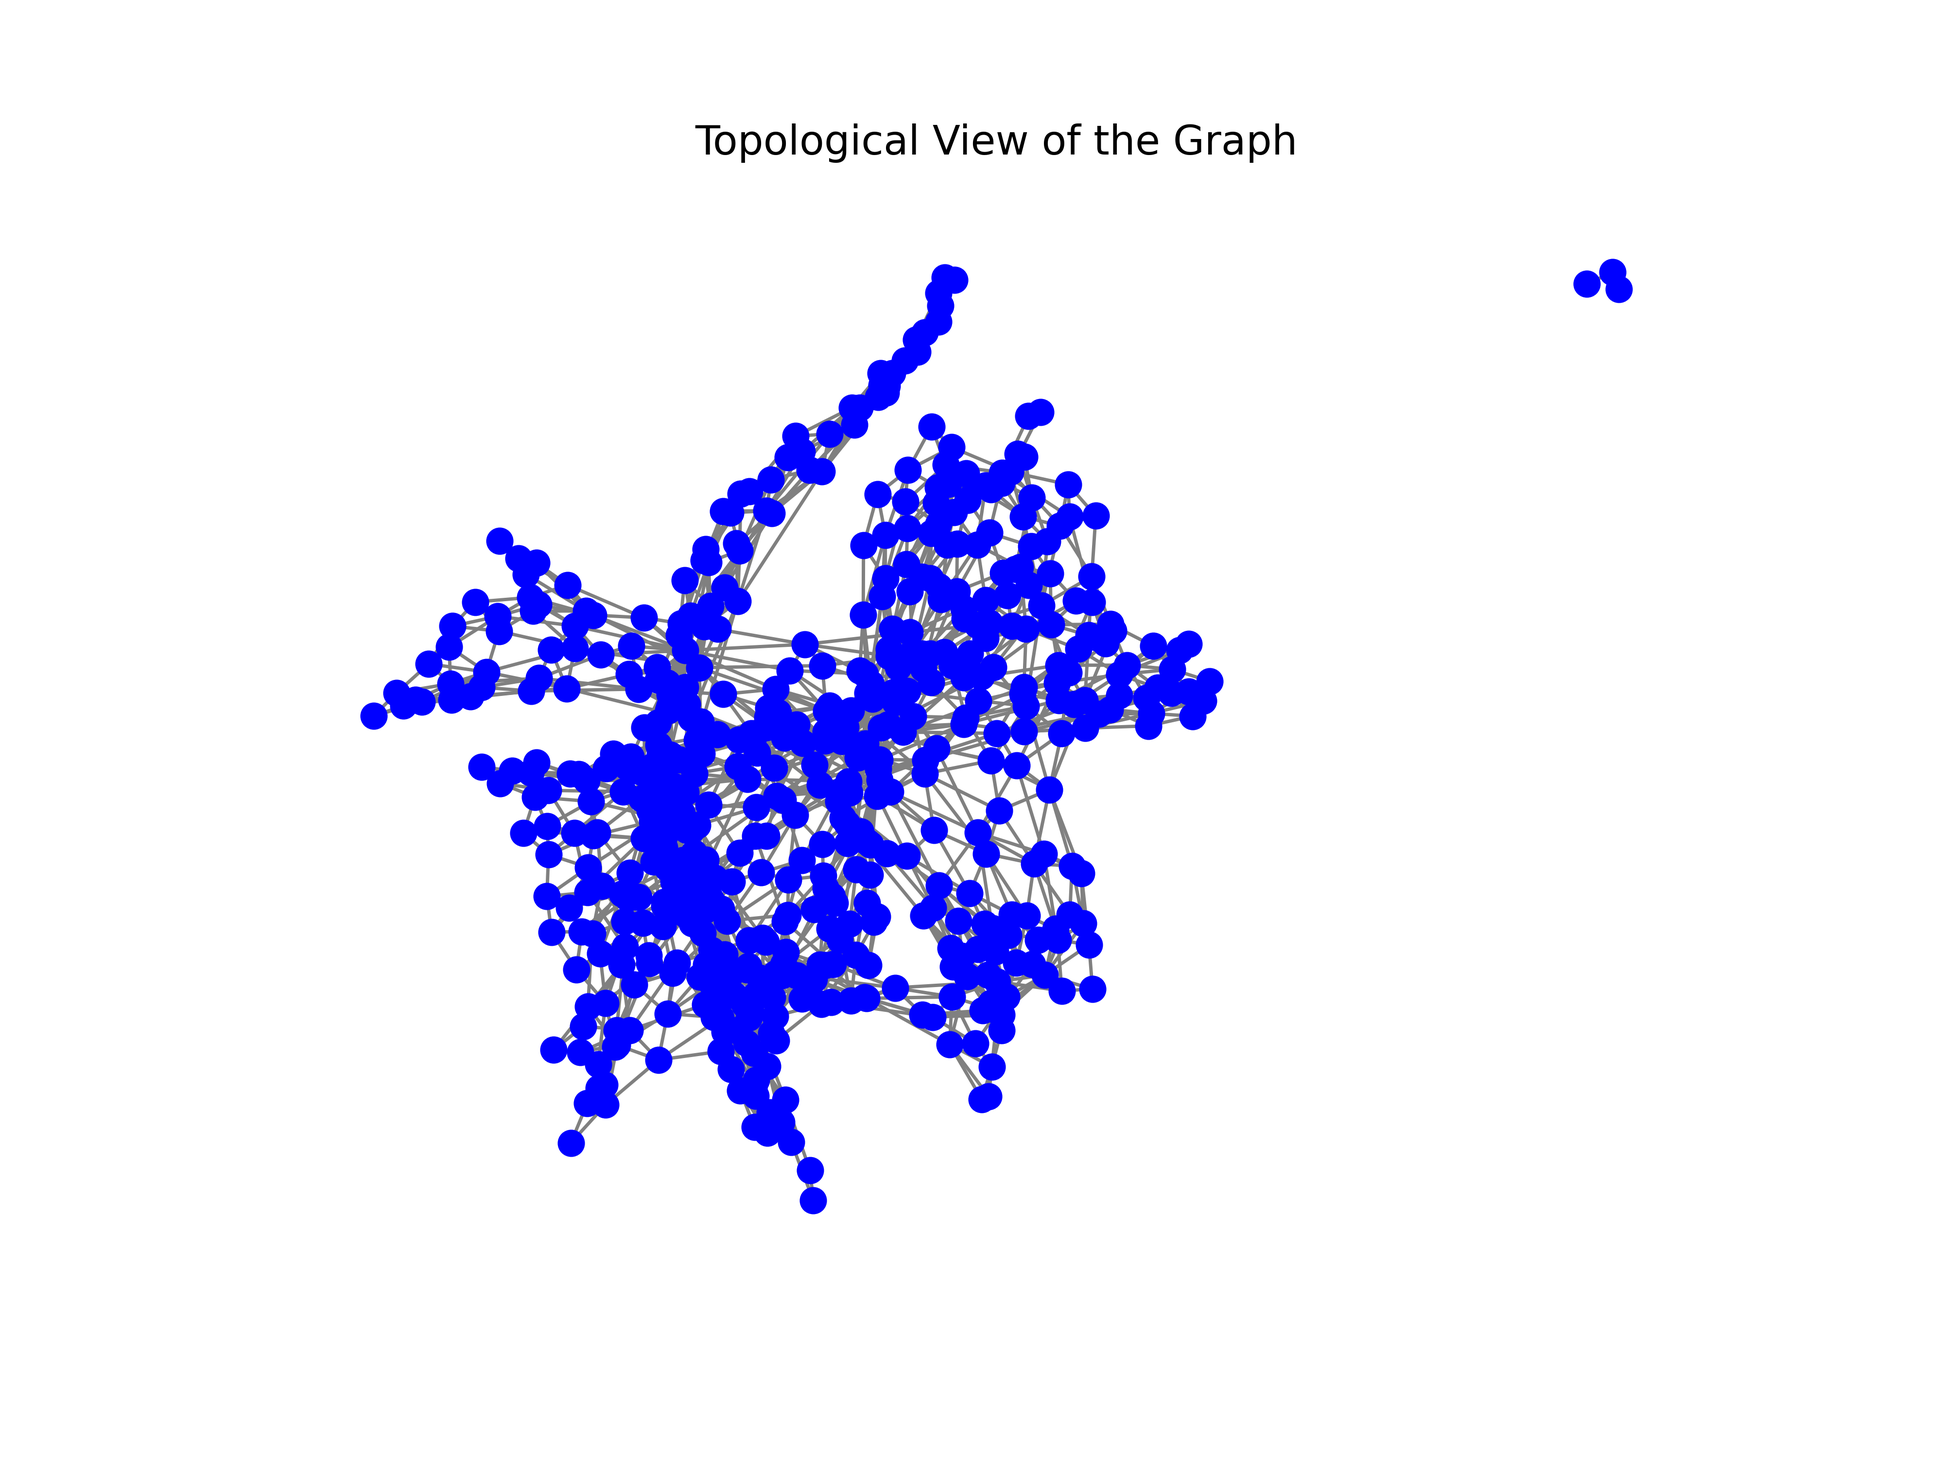
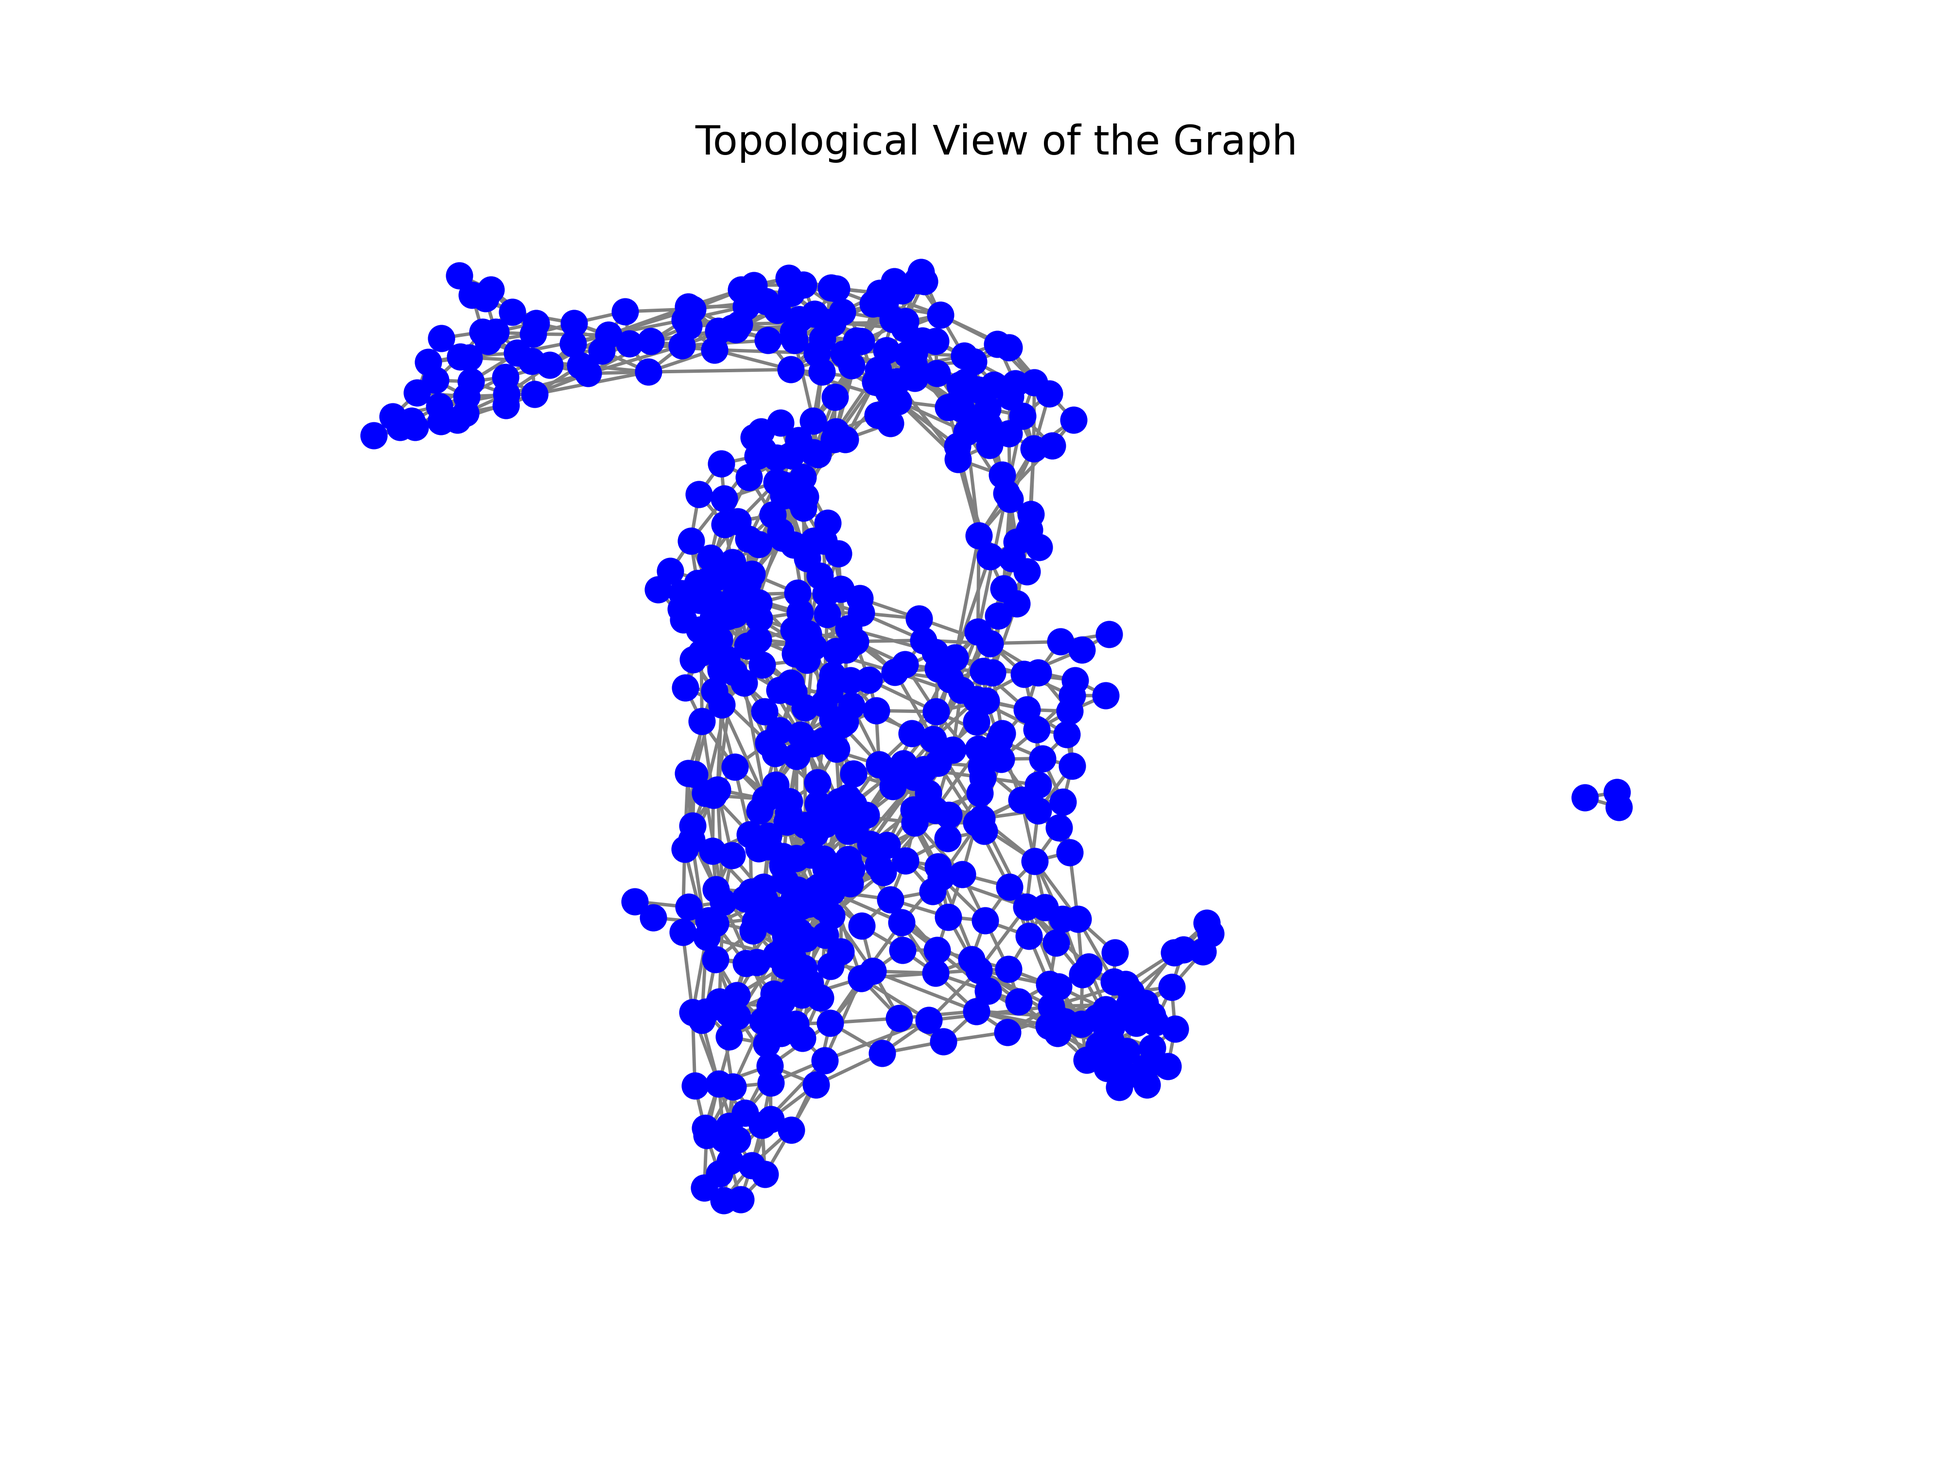
Fix NaN node removal to also remove admin level 3 nodes if an admin level 2 node is removed. Also fix graph on shapefile visualisation of this

Changed region(s): [[0.1875, 0.155, 0.625, 0.837], [0.8125, 0.527, 0.8438, 0.558], [0.8125, 0.186, 0.8438, 0.217]]

diff --git a/dissGNN/visualisations.py b/dissGNN/visualisations.py
@@ -55,7 +55,7 @@ def plot_shape_file(shapefile_path, admin_level):
     plt.xlabel("Longitude")
     plt.ylabel("Latitude")
     plt.savefig("output/map_visual/admin_" + str(admin_level) + "/map_visual_population_counts.png", dpi=500)
-    plt.show()
+    # plt.show()
 
 def plot_shape_file_predictions(shapefile_path, pred, act, admin_level, data):
     gdf = gpd.read_file(shapefile_path)
@@ -98,53 +98,51 @@ def plot_graph_on_shapefile(shapefile_path_coarse, shapefile_path_fine, data, ad
     gdf_coarse = gpd.read_file(shapefile_path_coarse)
     gdf_fine = gpd.read_file(shapefile_path_fine)
 
-    # Ensure PCODEs match between graph data and shapefile
-    gdf_coarse["ADM"+str(ad_level_coarse)+"_PCODE"] = gdf_coarse["ADM"+str(ad_level_coarse)+"_PCODE"].astype(str).str.strip()
-    gdf_fine["ADM"+str(ad_level_fine)+"_PCODE"] = gdf_fine["ADM"+str(ad_level_fine)+"_PCODE"].astype(str).str.strip()
+    pcode_col_coarse = f"ADM{ad_level_coarse}_PCODE"
+    pcode_col_fine = f"ADM{ad_level_fine}_PCODE"
+
+    # Ensure correct naming
+    gdf_coarse[pcode_col_coarse] = gdf_coarse[pcode_col_coarse].astype(str).str.strip()
+    gdf_fine[pcode_col_fine] = gdf_fine[pcode_col_fine].astype(str).str.strip()
     data.admin_codes = pd.Series(data.admin_codes).astype(str).str.strip()
 
     admin_codes_coarse = set(data.admin_codes[data.admin_level.cpu().numpy() == ad_level_coarse])
     admin_codes_fine = set(data.admin_codes[data.admin_level.cpu().numpy() == ad_level_fine])
 
+
     # Merge node coordinates with shapefile data
-    gdf_matched_coarse = gdf_coarse[gdf_coarse["ADM"+str(ad_level_coarse)+"_PCODE"].isin(admin_codes_coarse)].copy()
-    gdf_matched_fine = gdf_fine[gdf_fine["ADM"+str(ad_level_fine)+"_PCODE"].isin(admin_codes_fine)].copy()
+    gdf_matched_coarse = gdf_coarse[gdf_coarse[pcode_col_coarse].isin(admin_codes_coarse)].copy()
+    gdf_matched_fine = gdf_fine[gdf_fine[pcode_col_fine].isin(admin_codes_fine)].copy()
+
     gdf_matched_coarse["admin_level"] = "ADM2"
     gdf_matched_fine["admin_level"] = "ADM3"
-    gdf_matched = pd.concat([gdf_matched_coarse, gdf_matched_fine])
-    gdf_matched = gdf_matched.drop_duplicates()
 
-    
     # Extract centroids as node coordinates
-    gdf_matched["centroid"] = gdf_matched.geometry.centroid
-    node_coords = np.array(list(zip(gdf_matched.centroid.x, gdf_matched.centroid.y)))
+    gdf_matched_coarse["centroid"] = gdf_matched_coarse.geometry.centroid
+    gdf_matched_fine["centroid"] = gdf_matched_fine.geometry.centroid
+
+    pos_coarse = {row[pcode_col_coarse]: (row.centroid.x, row.centroid.y) for _, row in gdf_matched_coarse.iterrows()}
+    pos_fine = {row[pcode_col_fine]: (row.centroid.x, row.centroid.y) for _, row in gdf_matched_fine.iterrows()}
+
+    pos = {**pos_coarse, **pos_fine}
 
     # Create a graph using NetworkX
     edges = data.edge_index.cpu().numpy().T  # Convert to NumPy
     edges_df = pd.DataFrame(edges, columns=["source", "target"])
 
+    node_index_to_pcode = {i: data.admin_codes[i] for i in range(len(data.admin_codes))}
+    edges_df["source"] = edges_df["source"].map(node_index_to_pcode)
+    edges_df["target"] = edges_df["target"].map(node_index_to_pcode)
+
      # Remove nodes that have no position
-    valid_nodes = set(gdf_matched.index)
-    edges_df = edges_df[edges_df["source"].isin(valid_nodes) & edges_df["target"].isin(valid_nodes)]
+    edges_df = edges_df[edges_df["source"].isin(pos) & edges_df["target"].isin(pos)]
 
     G = nx.from_pandas_edgelist(edges_df, source="source", target="target", create_using=nx.Graph())
 
-
-    # Convert node coordinates into a dictionary (for NetworkX)
-    pos = {i: (node_coords[idx, 0], node_coords[idx, 1]) for idx, i in enumerate(valid_nodes)}
-
-    # Ensure valid_nodes indices are within gdf_matched's index range
-    valid_nodes = valid_nodes.intersection(gdf_matched.index)
-
-    pos_coarse = gdf_matched[gdf_matched["admin_level"] == "ADM2"].apply(lambda row: pos[row.name] if row.name in pos else None, axis=1).dropna().to_dict()
-    pos_fine = gdf_matched[gdf_matched["admin_level"] == "ADM3"].apply(lambda row: pos[row.name] if row.name in pos else None, axis=1).dropna().to_dict()
-
-    pos_all = {**pos_coarse, **pos_fine}
-
-
     # Plot the shapefile as the base map
     fig, ax = plt.subplots(figsize=(12, 8))
-    gdf_matched.plot(ax=ax, color="lightgrey", edgecolor="black", alpha=0.6)
+    gdf_matched_coarse.plot(ax=ax, color="lightgrey", edgecolor="black", alpha=0.6)
+    gdf_matched_fine.plot(ax=ax, color="lightgrey", edgecolor="black", alpha=0.6)
 
     G_coarse = G.subgraph(pos_coarse.keys())
     G_fine = G.subgraph(pos_fine.keys())
@@ -154,19 +152,9 @@ def plot_graph_on_shapefile(shapefile_path_coarse, shapefile_path_fine, data, ad
 
     # Draw ADM3 nodes (green)
     nx.draw_networkx_nodes(G_fine, pos_fine, ax=ax, node_size=30, node_color="green", alpha=0.6)
-    
+
     # Overlay the graph structure
     nx.draw_networkx_nodes(G_coarse, pos_coarse, ax=ax, node_size=50, node_color="blue", alpha=0.8)
-
-    
-
-    # # Add labels
-    # for node, (x, y) in pos_coarse.items():
-    #     ax.text(x, y, "ADM2", fontsize=9, color="black", ha="right", bbox=dict(facecolor="white", alpha=0.6))
-
-    # for node, (x, y) in pos_fine.items():
-    #     ax.text(x, y, "ADM3", fontsize=9, color="darkred", ha="left", bbox=dict(facecolor="white", alpha=0.6))
-
     # Formatting
     plt.title("Graph Structure Overlay on Shapefile")
     plt.xlabel("Longitude")
@@ -176,3 +164,28 @@ def plot_graph_on_shapefile(shapefile_path_coarse, shapefile_path_fine, data, ad
     # Save and display
     plt.savefig("output/map_visual/admin_2_3/graph_on_shapefile.png", dpi=500)
     plt.show()
+
+
+def plot_admin_dists(data):
+
+
+    # Separate labels for admin level 2 and 3
+    admin2_labels = data.y[data.admin_level == 2].cpu().numpy()
+    admin3_labels = data.y[data.admin_level == 3].cpu().numpy()
+
+    # Plot histograms
+    plt.figure(figsize=(12,5))
+
+    plt.subplot(1, 2, 1)
+    plt.hist(admin2_labels, bins=50, alpha=0.7, label="Admin Level 2", color='blue')
+    plt.xlabel("Population Density")
+    plt.ylabel("Count")
+    plt.title("Admin Level 2 Population Density Distribution")
+
+    plt.subplot(1, 2, 2)
+    plt.hist(admin3_labels, bins=50, alpha=0.7, label="Admin Level 3", color='red')
+    plt.xlabel("Population Density")
+    plt.ylabel("Count")
+    plt.title("Admin Level 3 Population Density Distribution")
+    plt.savefig("output/admin_dists.png", dpi=500)
+    # plt.show()

diff --git a/dissGNN/data_processing.py b/dissGNN/data_processing.py
@@ -5,7 +5,7 @@ import torch
 import numpy as np
 from torch_geometric.data import Data
 import matplotlib.pyplot as plt
-from sklearn.preprocessing import StandardScaler
+from sklearn.preprocessing import StandardScaler, MinMaxScaler
 
 
 # Function to convert a shapefile to represent edges of graph for specific country
@@ -50,7 +50,7 @@ def load_data(shape_path_coarse, shape_path_fine, features_path_coarse, features
     edges = pd.concat([edges_coarse, edges_fine, edges_mappings])
 
     #Add weights for edges
-    weights = {"coarse" : 4, "fine" : 1, "mappings" : 10}
+    weights = {"coarse" : 2, "fine" : 0.5, "mappings" : 2}
     edges["weights_init"] = edges["type"].map(weights)
     #Normalize weights TODO
 
@@ -116,30 +116,45 @@ def load_data(shape_path_coarse, shape_path_fine, features_path_coarse, features
     # data.val_mask[positions[train_size:train_size + val_size]] = True
     # data.test_mask[positions[train_size + val_size:]] = True
 
-    admin_mask = (admin_level_vals == 2)  # Mask for admin level 2 nodes
+    # admin_mask = (admin_level_vals == 2)  # Mask for admin level 2 nodes
     # data.y[~torch.tensor(admin_mask)] = -1 #Remove all labels for admin level 3 for semi-supervised learning
-
     return data
 
 def process_feature_data(node_features, edges):
     #Drop nan values and ensure admin level 3 mappings also dropped
     # print("LENGTH", len(node_features.isna().sum()))
-    node_features = node_features.dropna() 
     
-    # admin2_nan = node_features[(node_features['admin_level'] == 2) & (node_features.isna().any(axis=1))]
-    # print("LENGTH", len(admin2_nan[admin2_nan == True]))
-    # admin2_nan_pcodes = admin2_nan["ADM_PCODE"].tolist()
-    # admin3_remove = node_features[(node_features["admin_level"] == 3) & (node_features["ADM_PCODE"].str.startswith(tuple(admin2_nan_pcodes)))]
-    # rows_rem = admin2_nan.index.union(admin3_remove.index)
-    # node_features = node_features.drop(index=rows_rem)
 
-    # print(node_features)
-    edges = edges[edges["source"].isin(node_features["ADM_PCODE"]) & edges["target"].isin(node_features["ADM_PCODE"])] #Remove edges no longer valid
-    node_features.set_index("ADM_PCODE", inplace=True) #Set pcode as index
+   # Convert ADM_PCODE to string for consistency
+     
+    node_features = node_features.copy()
+    # node_features = node_features.dropna() 
+    node_features["ADM_PCODE"] = node_features["ADM_PCODE"].astype(str)
+
+    nodes_with_nans = node_features[node_features.isna().any(axis=1)]
+    removed_pcodes = set(nodes_with_nans["ADM_PCODE"])  
+
+    admin2_nan_pcodes = set(node_features[(node_features["admin_level"] == 2) & (node_features["ADM_PCODE"].isin(removed_pcodes))]["ADM_PCODE"])
+
+    # Efficiently find admin level 3 nodes that belong to these removed admin 2 nodes
+    admin3_remove = node_features[
+        (node_features["admin_level"] == 3) &
+        (node_features["ADM_PCODE"].str.startswith(tuple(admin2_nan_pcodes)))
+    ]
+
+    # Add these admin 3 nodes to the removal list
+    removed_pcodes.update(admin3_remove["ADM_PCODE"])
+    
+    node_features = node_features[~node_features["ADM_PCODE"].isin(removed_pcodes)]
+    edges[edges["source"].isin(node_features["ADM_PCODE"]) & edges["target"].isin(node_features["ADM_PCODE"])]
+    edges = edges.copy()
+    edges["source"] = edges["source"].astype(str)
+    edges["target"] = edges["target"].astype(str)
+
+    node_features.set_index("ADM_PCODE", inplace=True)  # Set pcode as index
 
     node_features["population_density"] = node_features["T_TL"] / node_features["district_area"] #Produce population density
     node_features = node_features[node_features["population_density"] > 0]  # Remove zero-population areas
-
 
     y_feature = node_features["population_density"]
     x_unscaled = node_features.drop(columns=["population_density", "ADM_PT", "log_population", "T_TL"])
@@ -150,16 +165,19 @@ def process_feature_data(node_features, edges):
     
     #Drop another unneeded column
     # x_unscaled = x_unscaled.drop(columns=['district_area'])
-
+    x_unscaled = x_unscaled.drop(columns=['admin_level'])
     #Log population density
-    y_feature = np.log1p(y_feature)
+    # y_feature = np.log1p(y_feature)
 
     # Standardize x (features)
     scaler = StandardScaler()
     x_features = scaler.fit_transform(x_unscaled)
 
+
     #Convert districts in edges to numbers
     area_to_index = {code: idx for idx, code in enumerate(node_features.index)}
+    edges = edges[edges["source"].isin(area_to_index) & edges["target"].isin(area_to_index)].copy()
+
     edges["source_num"] = edges["source"].map(area_to_index)
     edges["target_num"] = edges["target"].map(area_to_index)
 

diff --git a/dissGNN/train_validate.py b/dissGNN/train_validate.py
@@ -13,10 +13,11 @@ def train(model, optimizer, data, loss_fn):
     # valid_mask = train_labels != -1  # Only keep admin level 2 nodes
 
     # loss = loss_fn(torch.expm1(train_preds[valid_mask]), torch.expm1(train_labels[valid_mask]))
-    loss = loss_fn(torch.expm1(train_preds), torch.expm1(train_labels))
+    # loss = loss_fn(torch.expm1(train_preds), torch.expm1(train_labels))
+    loss = loss_fn(train_preds, train_labels)
 
     loss.backward()
-    torch.nn.utils.clip_grad_norm_(model.parameters(), 0.8)
+    # torch.nn.utils.clip_grad_norm_(model.parameters(), 0.4)
     optimizer.step()
     return loss.item()
 
@@ -26,11 +27,11 @@ def validate(model, data, mask, e=1e-6):
     output = model(data.x, data.edge_index, data.edge_weight).squeeze()
 
     # Compute MAPE
-    actual = torch.expm1(data.y[mask])  # Convert log values back to original scale
-    predicted = torch.expm1(output[mask])  # Convert log predictions back to original scale
+    # actual = torch.expm1(data.y[mask])  # Convert log values back to original scale
+    # predicted = torch.expm1(output[mask])  # Convert log predictions back to original scale
 
-    # actual = data.y[mask]  # Convert log values back to original scale
-    # predicted = output[mask]  # Convert log predictions back to original scale
+    actual = data.y[mask]  # Convert log values back to original scale
+    predicted = output[mask]  # Convert log predictions back to original scale
 
     # Compute MAE
     mae = torch.abs(predicted - actual).mean().item()
@@ -68,12 +69,17 @@ def train_loop(num_epochs, model, data, optimizer, loss_fn):
 
 def produce_predictions(data, model, admin_level):
     model.eval()
-    mask_admin_level = (data.admin_level == admin_level)
     
     with torch.no_grad():
         predictions = model(data.x, data.edge_index, data.edge_weight)
 
-    predictions_final = torch.expm1(predictions[mask_admin_level]).cpu().numpy().flatten()
-    actual_final = torch.expm1(data.y[mask_admin_level]).cpu().numpy().flatten()
+    print("Raw Predictions (before expm1):", predictions[data.test_mask].detach().cpu().numpy())
+    print("Actual Values (before expm1):", data.y[data.test_mask].detach().cpu().numpy())
+
+    predictions_final = torch.expm1(predictions[data.test_mask]).cpu().numpy().flatten()
+    actual_final = torch.expm1(data.y[data.test_mask]).cpu().numpy().flatten()
+
+    predictions_final = predictions[data.test_mask].cpu().numpy().flatten()
+    actual_final = data.y[data.test_mask].cpu().numpy().flatten()
 
     return predictions_final, actual_final  

diff --git a/dissGNN/model.py b/dissGNN/model.py
@@ -18,17 +18,17 @@ class GraphSage(nn.Module):
             self.conv.append(SAGEConv(hidden_layer_size, hidden_layer_size))
 
         #Hidden layer to output mapping
-        self.final_layer = nn.Linear(hidden_layer_size, output_size)
+        self.final_layer = SAGEConv(hidden_layer_size, output_size)
         self.drop_prob = drop_prob
 
-    def forward(self, x, edge_index):
+    def forward(self, x, edge_index, edge_weight):
         for layer in self.conv:
             x = F.dropout(x, p=self.drop_prob, training = self.training)
             x = layer(x, edge_index)          
             # x = F.leaky_relu(x, negative_slope = 0.01)
             x = F.relu(x)
 
-        x = self.final_layer(x)
+        x = self.final_layer(x, edge_index)
 
         return x
     
@@ -74,10 +74,10 @@ class GCN(nn.Module):
             self.conv.append(GCNConv(hidden_layer_size, hidden_layer_size, add_self_loops=True))
 
         #Hidden layer to output mapping
-        self.final_layer = nn.Linear(hidden_layer_size, output_size)
+        self.final_layer = GCNConv(hidden_layer_size, output_size)
         self.drop_prob = drop_prob
 
-    def forward(self, x, edge_index):
+    def forward(self, x, edge_index, edge_weight):
         for layer in self.conv:
             
             x = layer(x, edge_index)      
@@ -85,6 +85,6 @@ class GCN(nn.Module):
             # x = F.leaky_relu(x, negative_slope = 0.01)
             x = F.relu(x)
 
-        x = self.final_layer(x)
+        x = self.final_layer(x, edge_index)
 
         return x

diff --git a/dissGNN/main.py b/dissGNN/main.py
@@ -49,18 +49,18 @@ if __name__ == "__main__":
     # print(best_mape, "\n", best_params)
     # --------------
     
-    hidden_size, message_passing_count, drop_prob, learning_rate, weight_decay = 2, 8, 0.3, 5e-3, 5e-4
+    hidden_size, message_passing_count, drop_prob, learning_rate, weight_decay = 2, 6, 0.3, 5e-3, 5e-4
 
     model_inst = model.GAT(input_size, output_size, hidden_size, message_passing_count, drop_prob)
 
     # loss_fn = nn.MSELoss() 
     loss_fn = nn.SmoothL1Loss() 
     optimizer = torch.optim.Adam(model_inst.parameters(), lr = learning_rate, weight_decay = weight_decay)
-    loss, val_acc, train_acc = train_validate.train_loop(400, model_inst, data, optimizer, loss_fn)
+    loss, val_acc, train_acc = train_validate.train_loop(300, model_inst, data, optimizer, loss_fn)
 
     pred, act = train_validate.produce_predictions(data, model_inst, 3)
     visualisations.plot_graph_on_shapefile("data/shapefiles/admin_2/moz_admbnda_adm2_ine_20190607.shp", "data/shapefiles/admin_3/moz_admbnda_adm3_ine_20190607.shp", data, 2, 3)
-
+    visualisations.plot_admin_dists(data)
     visualisations.plot_loss_val_curve(loss, val_acc, train_acc, model_inst)
     visualisations.plot_graph_structure(data)
     visualisations.plot_graph_on_shapefile("data/shapefiles/admin_2/moz_admbnda_adm2_ine_20190607.shp", "data/shapefiles/admin_3/moz_admbnda_adm3_ine_20190607.shp", data, 2, 3)
